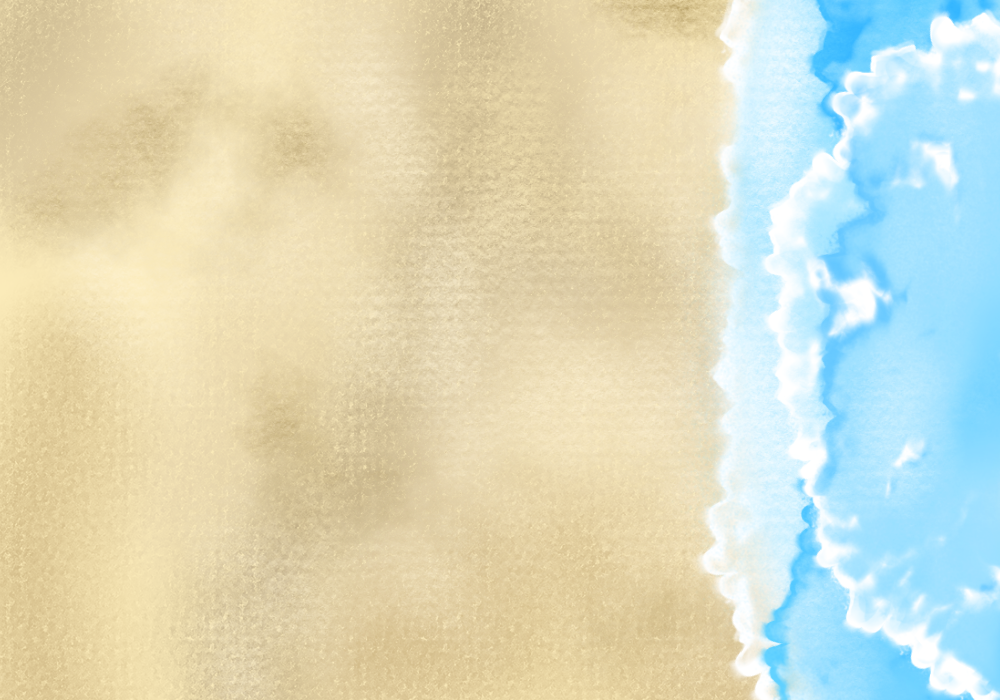
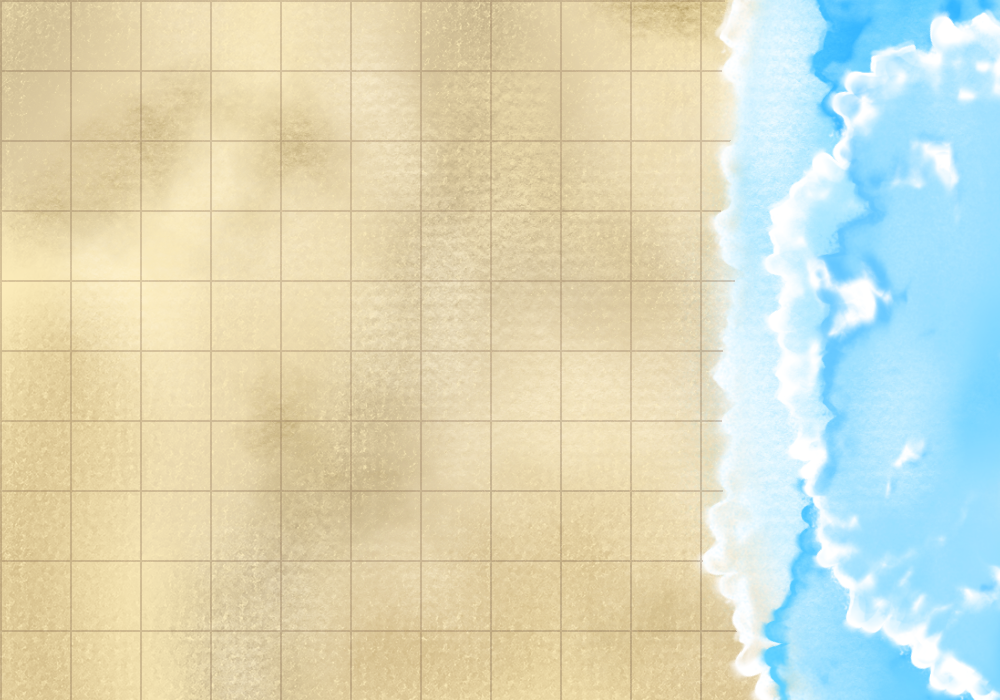
Updated firing system

diff --git a/battleship.py b/battleship.py
@@ -72,6 +72,12 @@ class UNIT:
                     pass
         self.drag = True
 
+    def hit(self):
+        self.health -=1
+        if self.health <= 0:
+            self.isDead = True
+            self.image = self.deadImage
+
     def __str__(self):
         return self.name
 
@@ -130,22 +136,6 @@ class CROSS:
         return x, y
 
 
-def drawGrid(grid, flip=False):
-    if flip:
-        x = 300
-        win.blit(aBG, (0, 0))
-    else:
-        x = 0
-        win.blit(BG, (0, 0))
-    for i in range(9):
-        draw.line(win, (255, 255, 255), ((i + 1) * 70 + x, 0), ((i + 1) * 70 + x, 700), 2)
-        draw.line(win, (200, 200, 200), (x, (i + 1) * 70), (700 + x, (i + 1) * 70), 2)
-    if x:
-        draw.line(win, (255, 255, 255), (x, 0), (x, 1000), 2)
-    else:
-        draw.line(win, (255, 255, 255), (700, 0), (700, 1000), 2)
-
-
 # INITIALIZATION
 init()
 win = display.set_mode((1000, 700))
@@ -176,7 +166,7 @@ for player, units in enumerate(ALL_UNITS):
     while True:
 
         win.fill((0, 0, 0))
-        drawGrid(player)
+        win.blit(BG, (0,0))
         for u in units:
             u.draw()
 
@@ -211,7 +201,7 @@ while inGame:
         while inRound:
 
             if Menu == 0:
-                drawGrid(player)
+                win.blit(BG, (0,0))
                 BAR.draw()
                 CUR.draw()
                 for row, items in enumerate(HITGRIDS[player]):
@@ -257,6 +247,6 @@ while inGame:
                                     HITGRIDS[1-player][y][x] = False
                                 else:
                                     HITGRIDS[1 - player][y][x] = True
-                                    GRIDS[1 - player][y][x].health.hit
+                                    GRIDS[1 - player][y][x].hit
 
             display.update()
